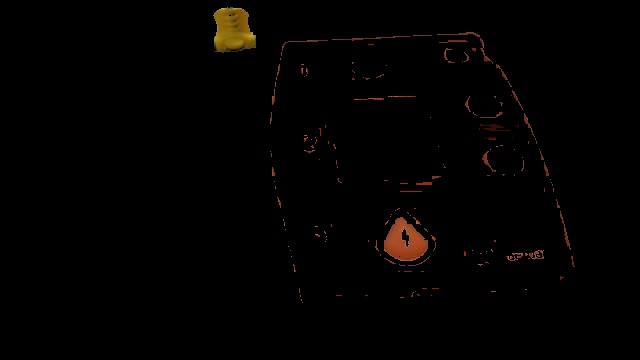
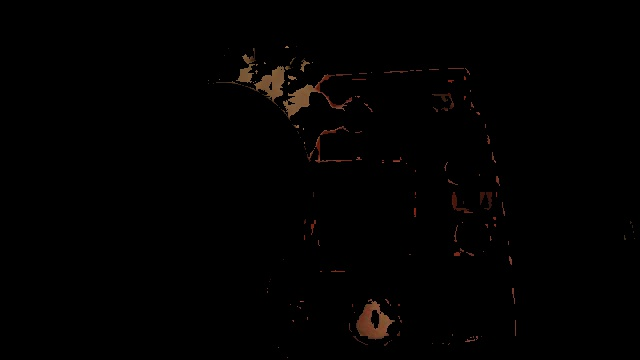
remove show iamge

diff --git a/server/bin/mpc/logic/stage_3_main.py b/server/bin/mpc/logic/stage_3_main.py
@@ -45,7 +45,7 @@ def run(last_valid_frame,frame):
     global detected_y
     global org_size
 
-    x,y,size,is_success = feature_detetor.detect_orange_btn(last_valid_frame,frame,detected_x,detected_y,org_size,2)
+    x,y,size,is_success = feature_detetor.detect_orange_btn(last_valid_frame,frame,detected_x,detected_y,org_size,0)
     detected_x = x
     detected_y = y
     org_size = size
